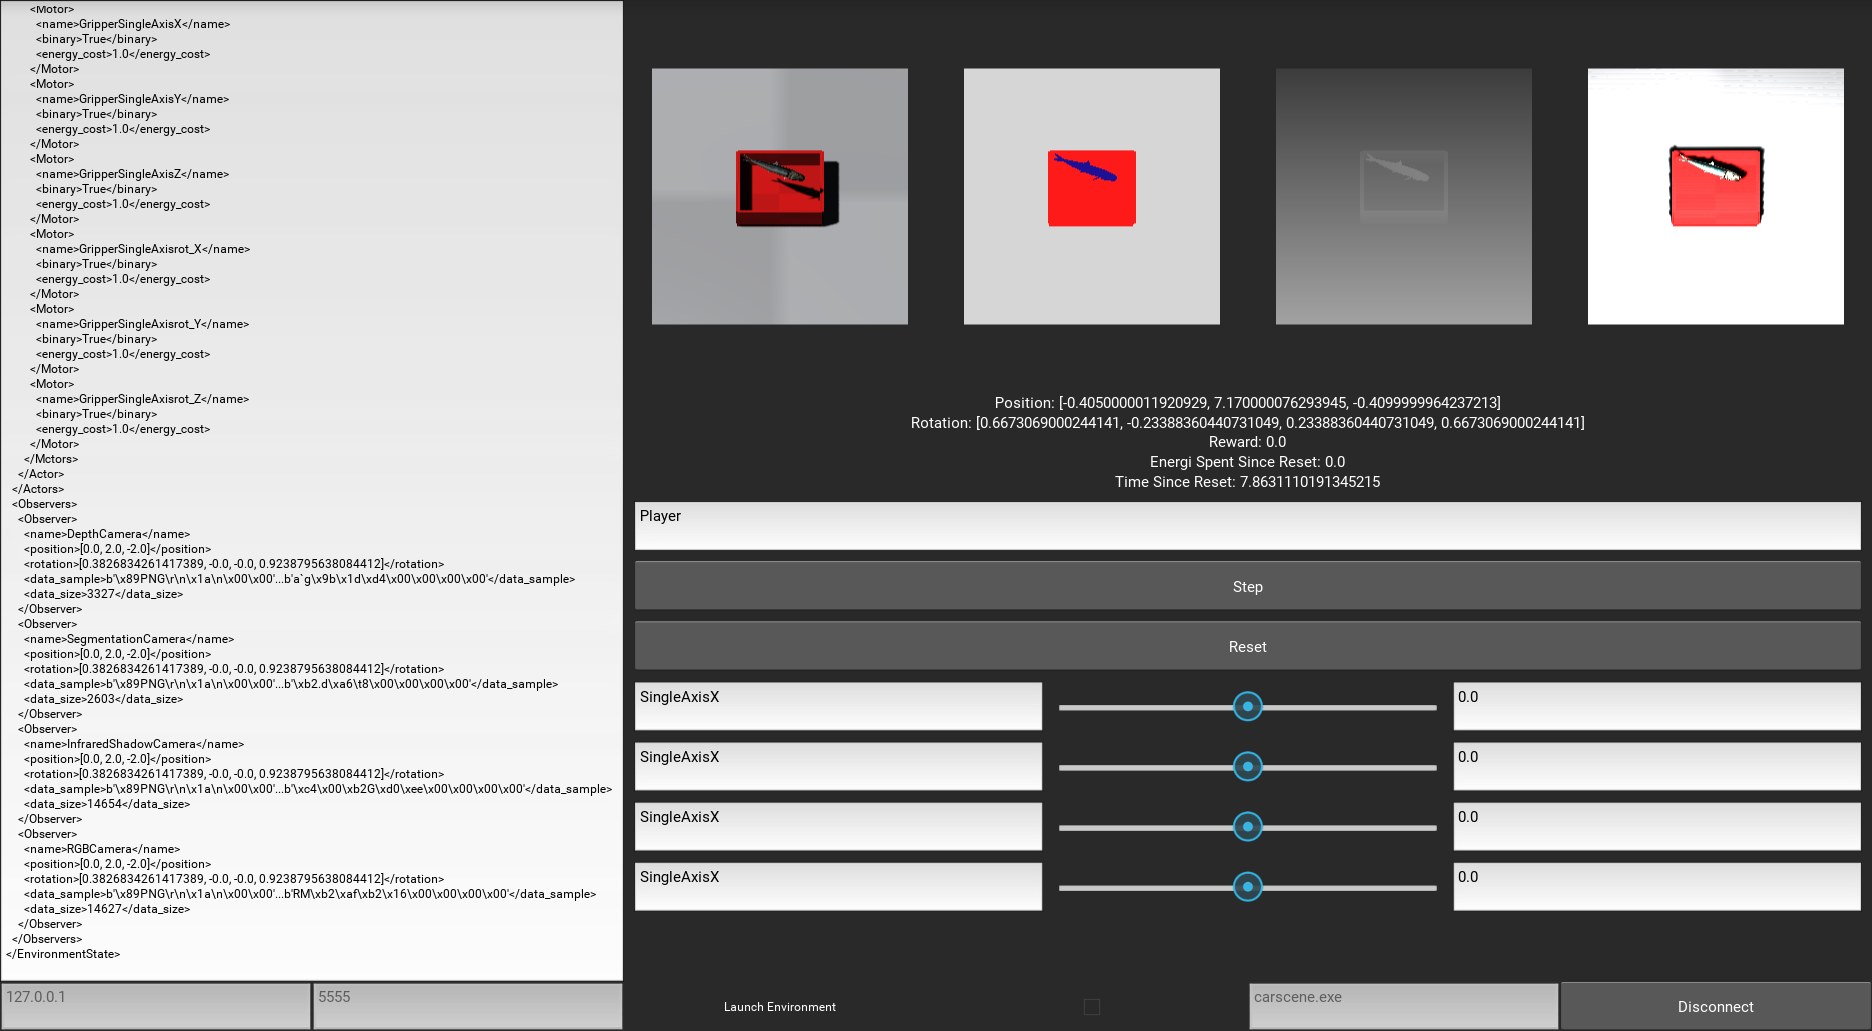
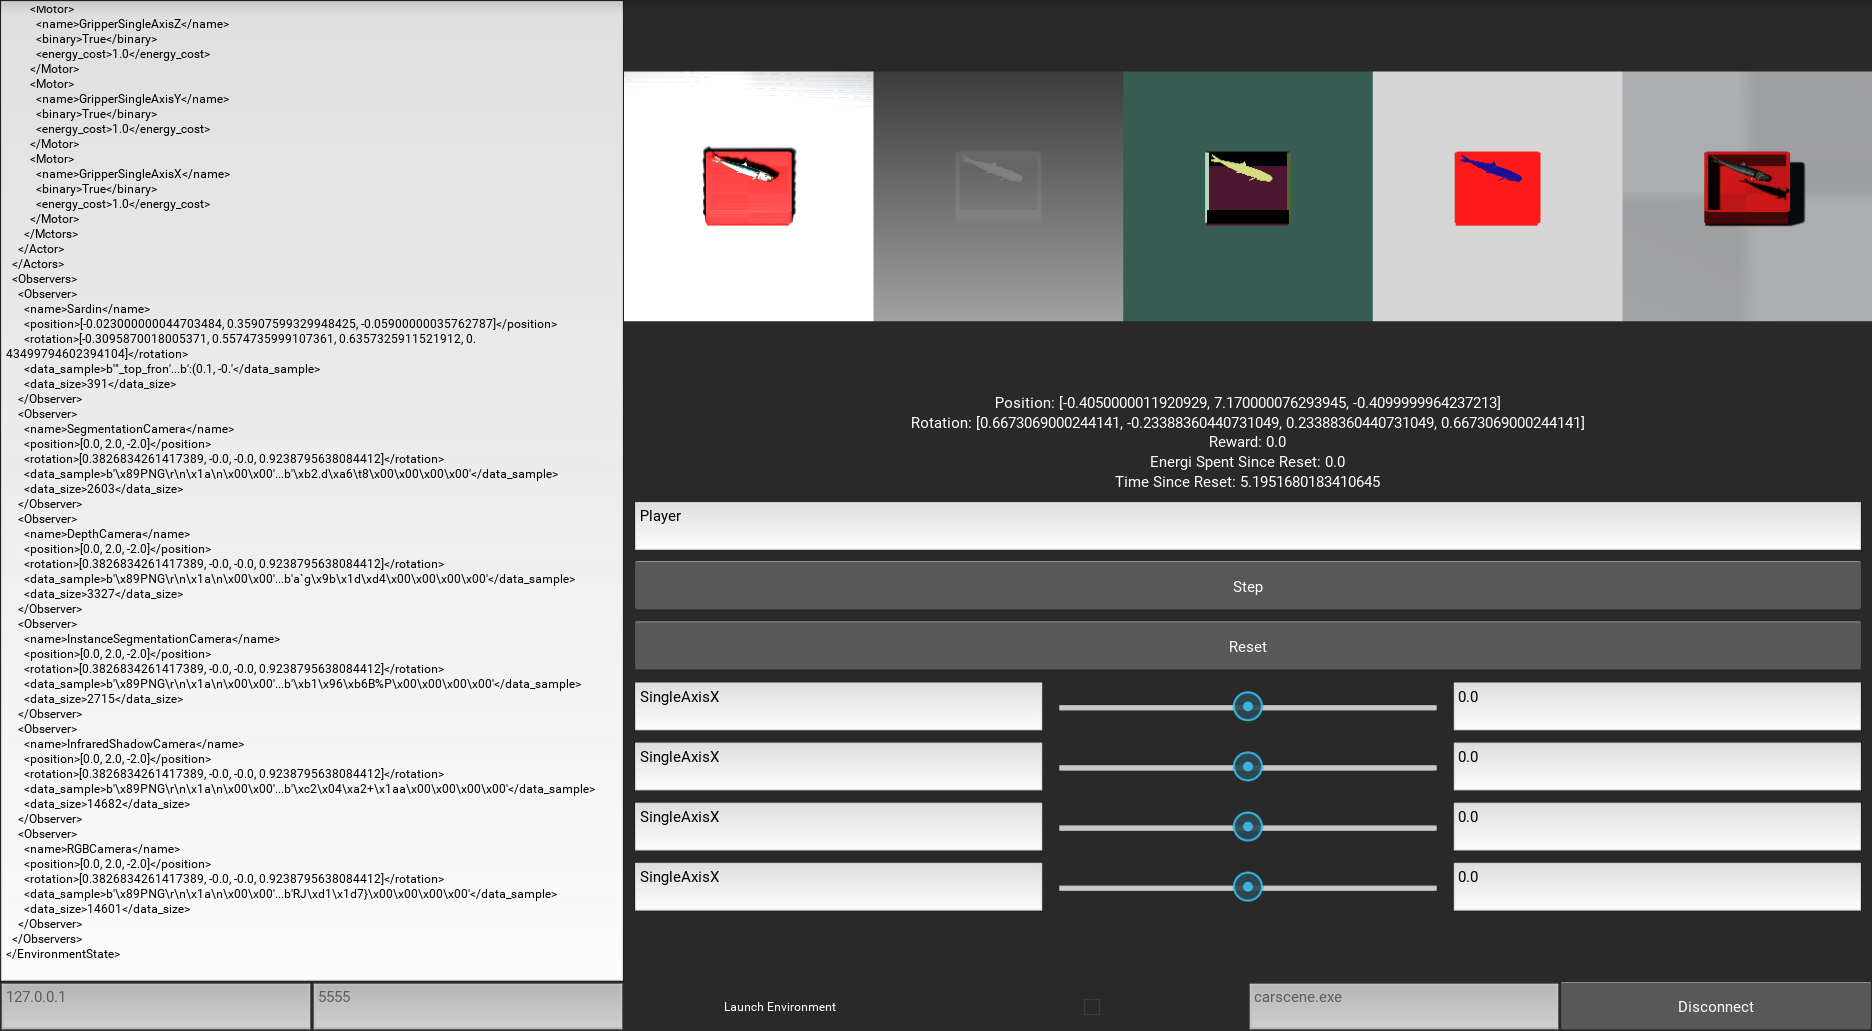
added new images to gui

diff --git a/example/guiclient/gui_components/environment_state_box.py b/example/guiclient/gui_components/environment_state_box.py
@@ -10,9 +10,10 @@ class EnvironmentStateBox(BoxLayout):
 
     def build(self):
         self.depth_image = Image(source='images/default.png')
-        self.segmentation_image = Image(source='images/neo.jpg')
-        self.rgb_image = Image(source='images/neodroid.jpg')
-        self.infrared_shadow_image = Image(source='images/neodroid.jpg')
+        self.segmentation_image = Image(source='images/default.png')
+        self.instance_segmentation_image = Image(source='images/default.png')
+        self.rgb_image = Image(source='images/default.png')
+        self.infrared_shadow_image = Image(source='images/default.png')
         self.position_label = Label(text='Position: ',size_hint=(1.0,0.05))
         self.rotation_label = Label(text='Rotation: ', size_hint=(1.0, 0.05))
         self.reward_label = Label(text='Reward: ', size_hint=(1.0, 0.05))
@@ -22,7 +23,8 @@ class EnvironmentStateBox(BoxLayout):
         self.image_row_layout = BoxLayout(orientation='horizontal')
 
         self.image_row_layout.add_widget(self.rgb_image)
-        self.image_row_layout.add_widget(self.segmentation_image)
+        self.image_row_layout.add_widget(self.segmentation_image)        
+        self.image_row_layout.add_widget(self.instance_segmentation_image)
         self.image_row_layout.add_widget(self.depth_image)
         self.image_row_layout.add_widget(self.infrared_shadow_image)
 
@@ -45,6 +47,13 @@ class EnvironmentStateBox(BoxLayout):
         try:
             segmentation_image = CoreImage(segmentation_image_data, ext='png')
             self.segmentation_image.texture = segmentation_image.texture
+        except:
+            print('Image not valid')
+
+    def update_instance_segmentation_image(self, instance_segmentation_image_data):
+        try:
+            instance_segmentation_image = CoreImage(instance_segmentation_image_data, ext='png')
+            self.instance_segmentation_image.texture = instance_segmentation_image.texture
         except:
             print('Image not valid')
 

diff --git a/example/guiclient/main.py b/example/guiclient/main.py
@@ -60,10 +60,11 @@ def update_environment_widgets(environment_state):
     print('Failed at updating rest of GUI')
 
   try:
-    _gui.update_depth_image(environment_state.get_observers()[0].get_data())
-    _gui.update_segmentation_image(environment_state.get_observers()[1].get_data())
-    _gui.update_rgb_image(environment_state.get_observers()[3].get_data())
-    _gui.update_infrared_shadow_image(environment_state.get_observers()[2].get_data())
+    _gui.update_depth_image(environment_state.get_observers()[1].get_data())
+    _gui.update_segmentation_image(environment_state.get_observers()[2].get_data())
+    _gui.update_instance_segmentation_image(environment_state.get_observers()[3].get_data())
+    _gui.update_rgb_image(environment_state.get_observers()[4].get_data())
+    _gui.update_infrared_shadow_image(environment_state.get_observers()[5].get_data())
     #combined_image = get_masked_depth_image(environment_state.get_observers()[0].get_data(),                             #           environment_state.get_observers()[1].get_data(), 50, 200)
     #_gui.update_combined_image(combined_image)
   except:

diff --git a/example/guiclient/gui.py b/example/guiclient/gui.py
@@ -45,6 +45,9 @@ class NeoGUI(App):
     def update_segmentation_image(self, segmentation_image):
         self.state_box.update_segmentation_image(segmentation_image)
 
+    def update_instance_segmentation_image(self, instance_segmentation_image):
+        self.state_box.update_instance_segmentation_image(instance_segmentation_image)
+
     def update_infrared_shadow_image(self, infrared_shadow_image):
         self.state_box.update_infrared_shadow_image(infrared_shadow_image)
 
